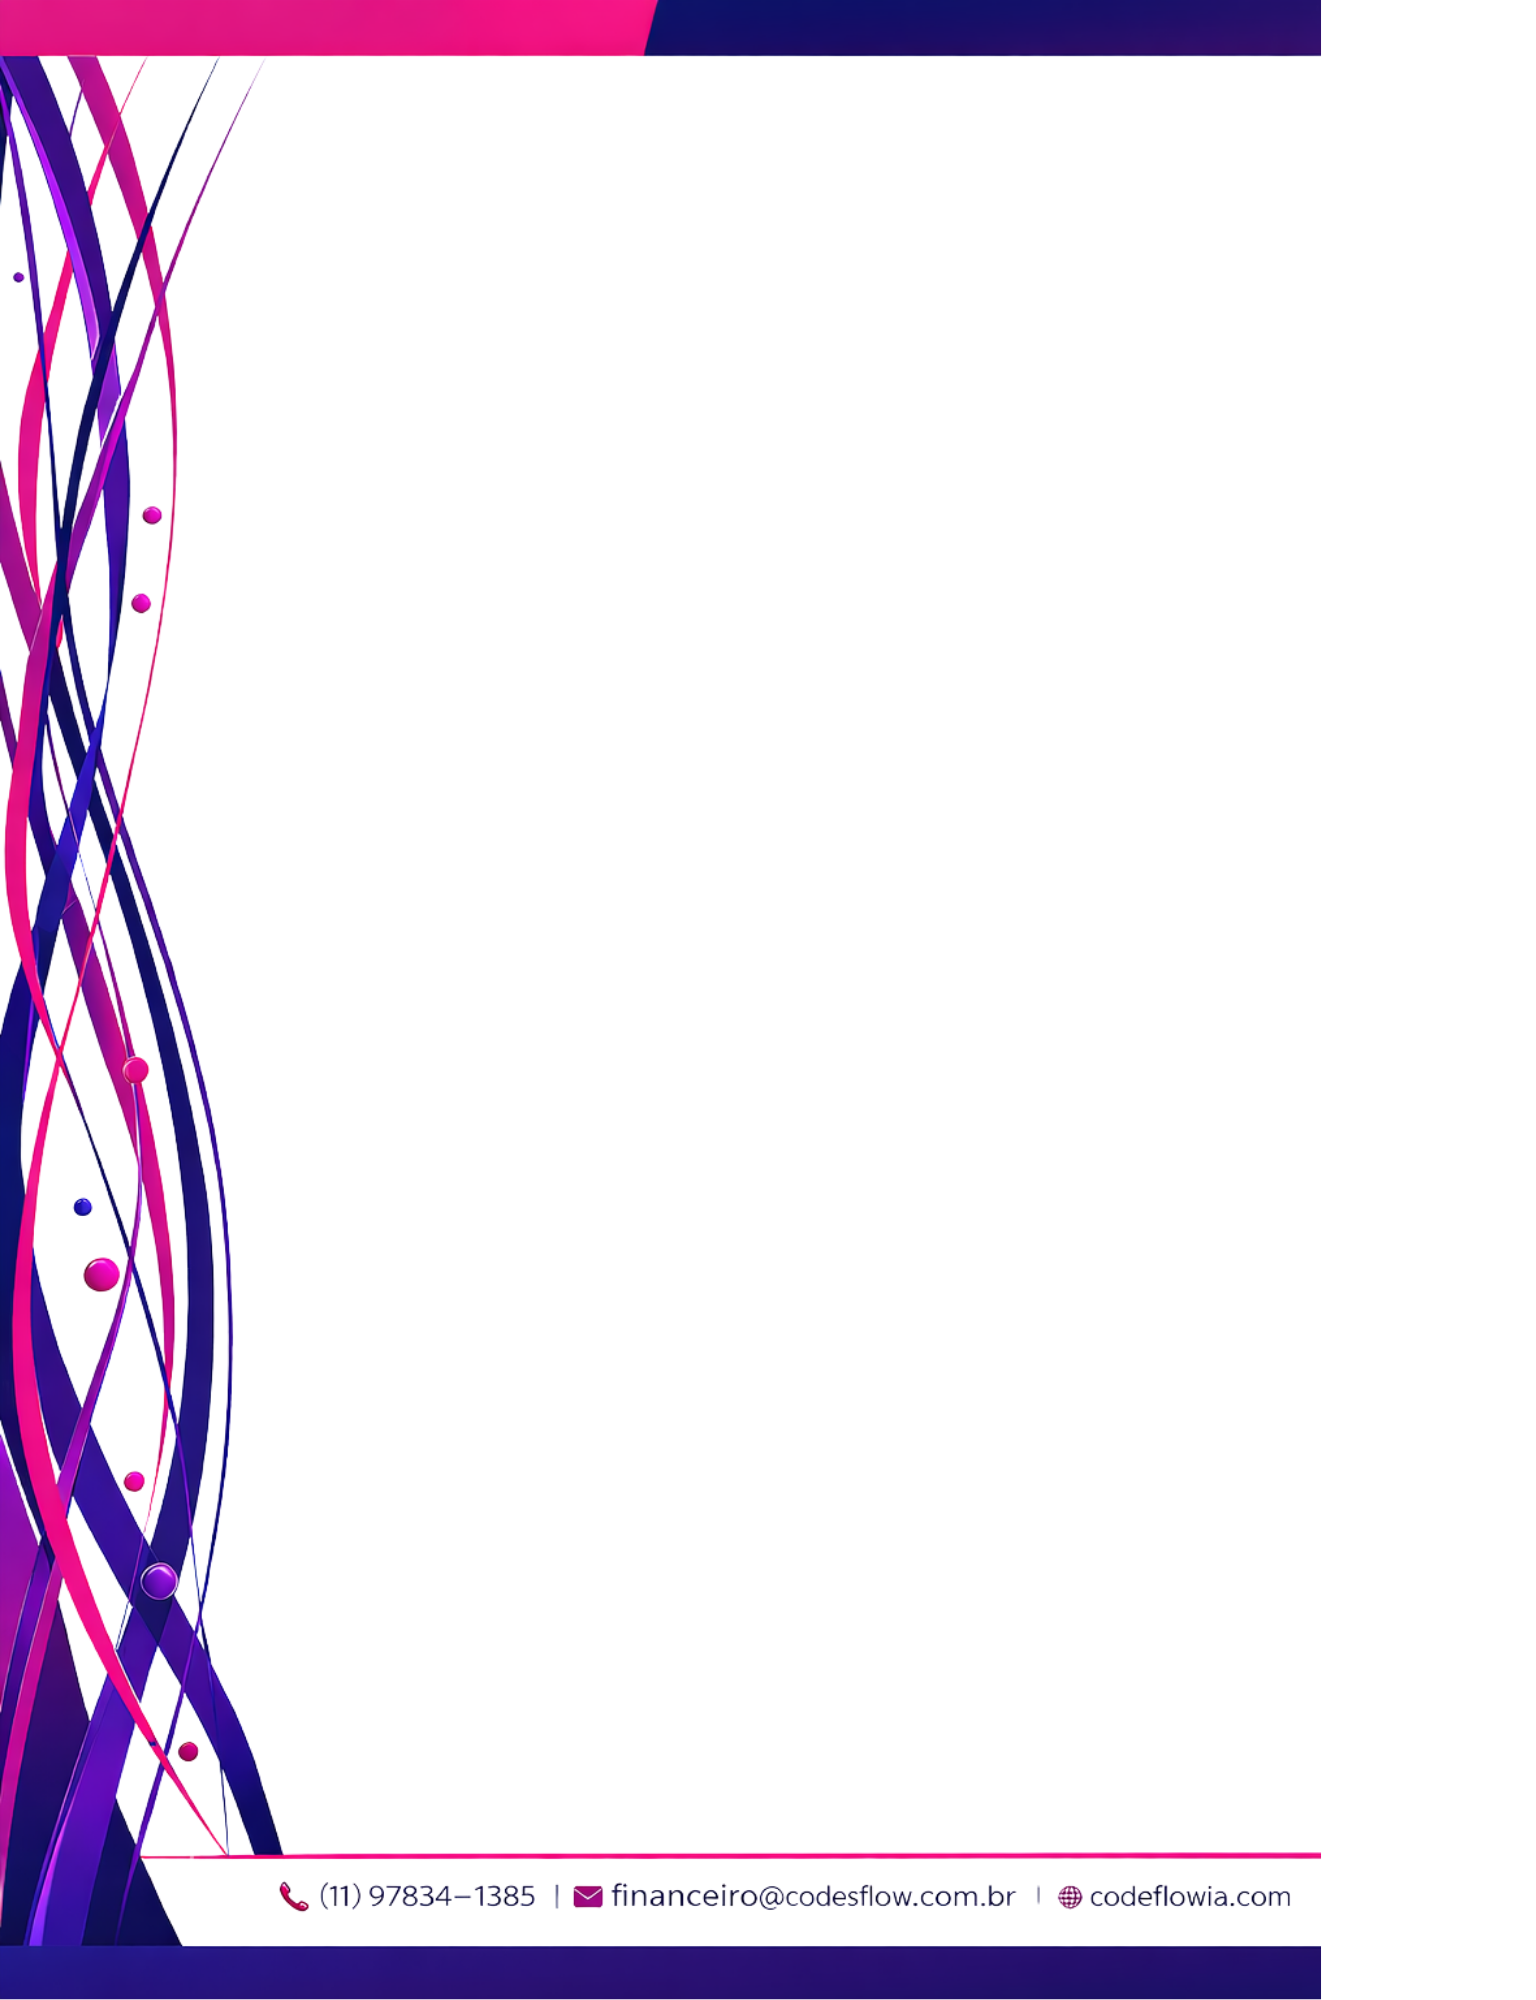
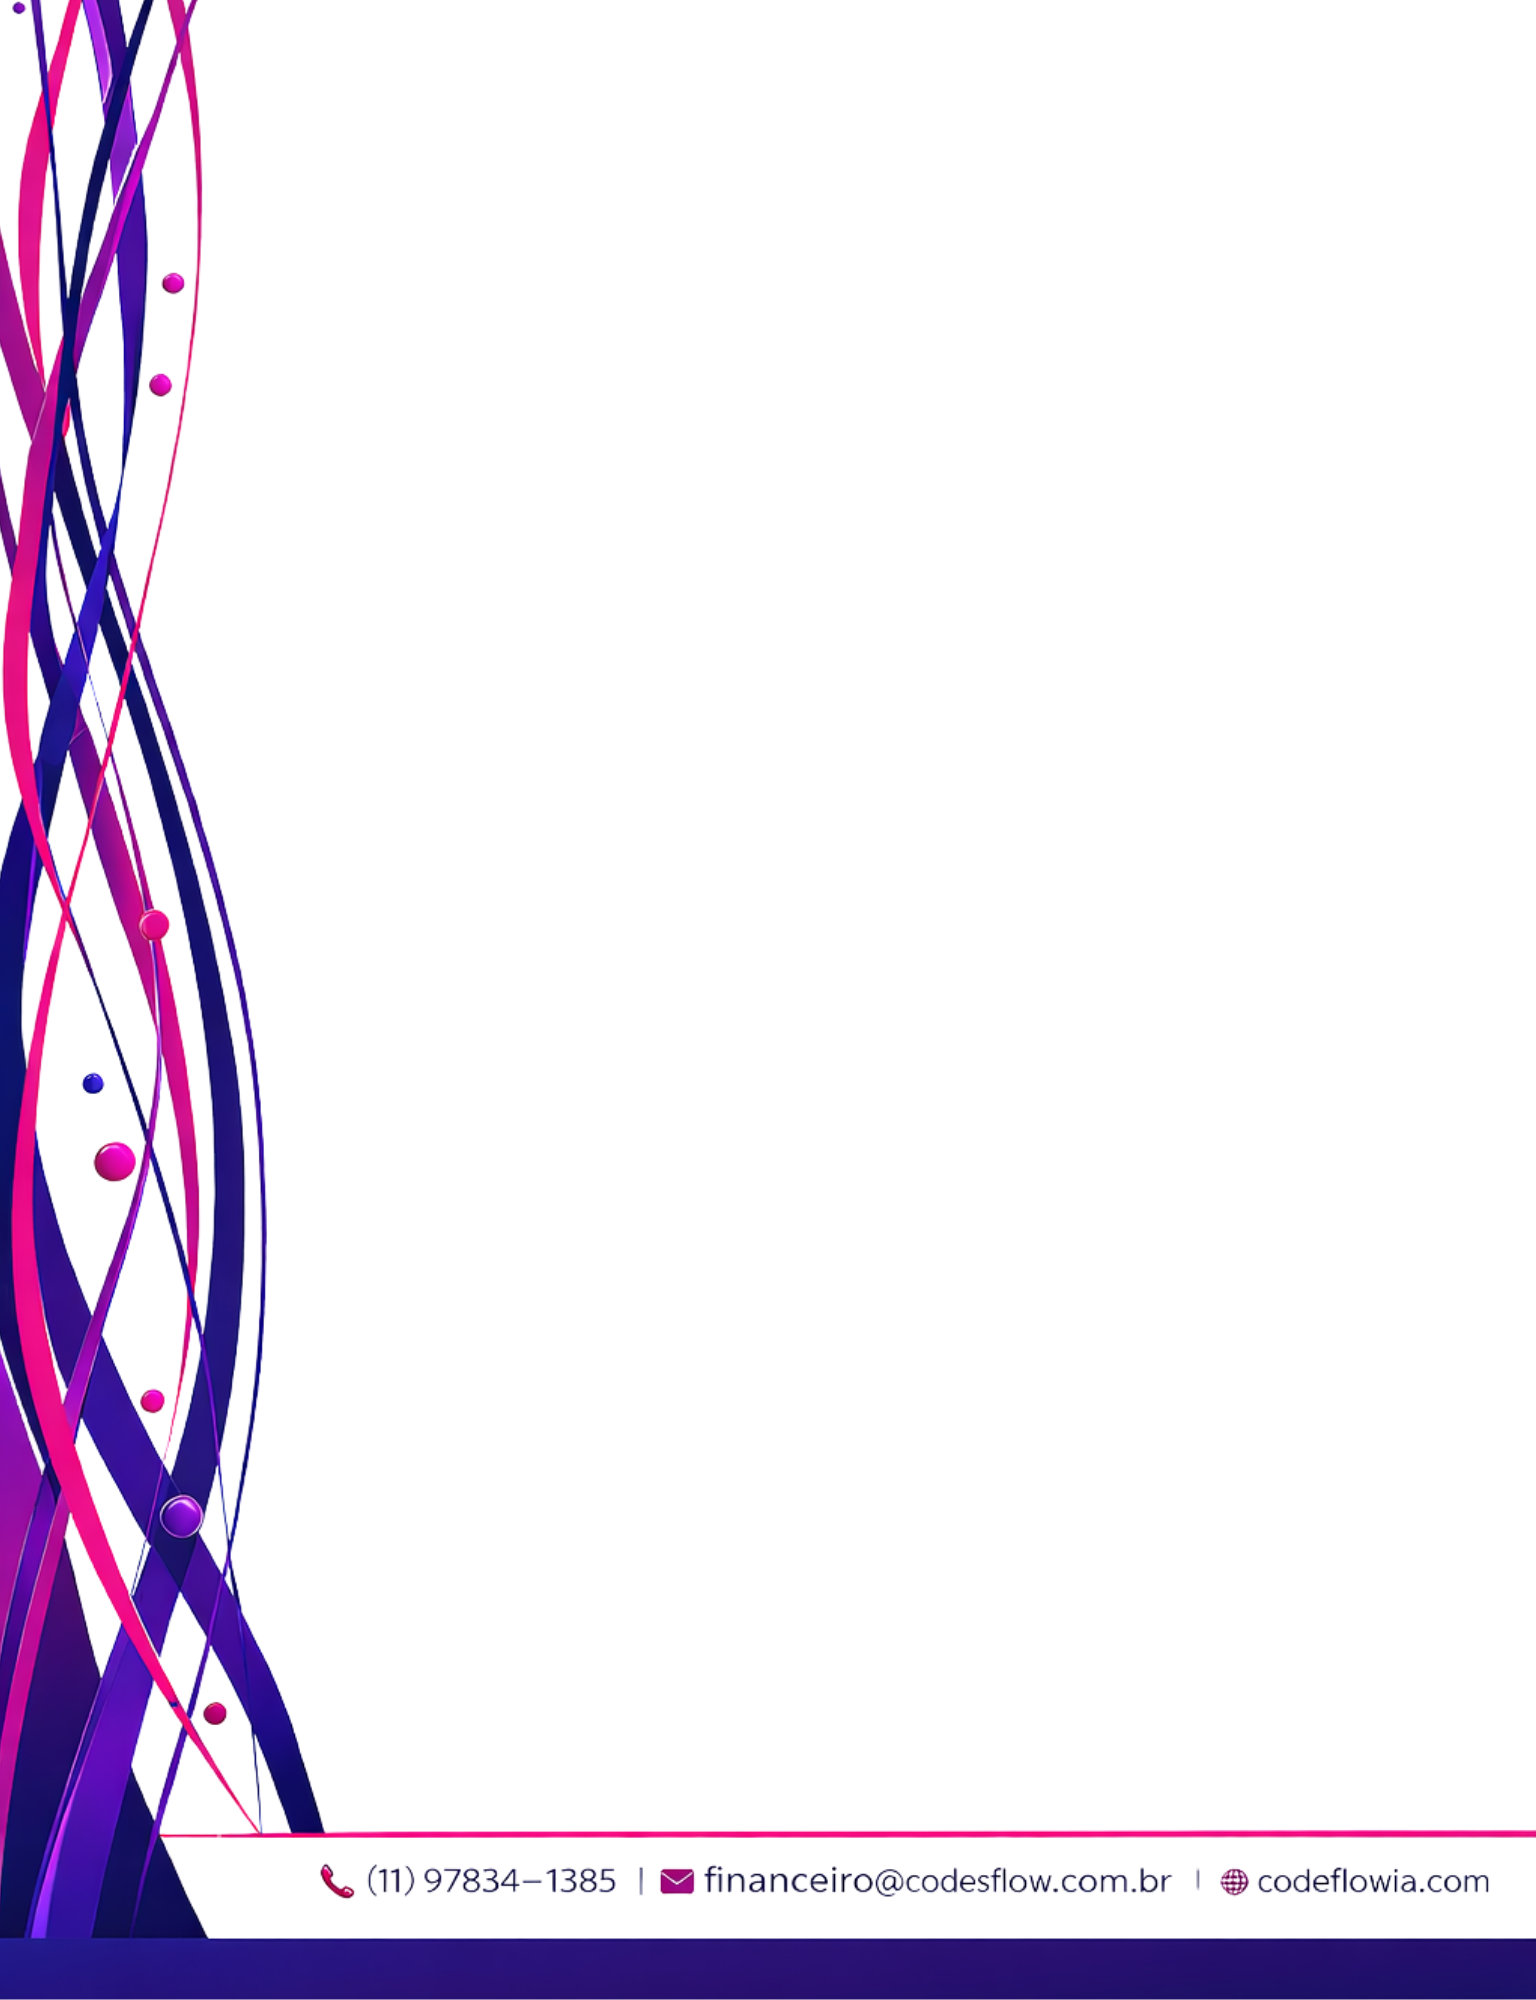
update no fundo

Changed region(s): [[0.0, 0.0, 1.0, 1.0]]

diff --git a/crm/templates/crm/carta_pdf_print copy.html b/crm/templates/crm/carta_pdf_print copy.html
@@ -1,0 +1,174 @@
+{% load static %}
+<!DOCTYPE html>
+<html lang="pt-br">
+<head>
+    <meta charset="UTF-8" />
+    <title>Carta de Depósito Direto</title>
+    <style>
+        @import url('https://fonts.googleapis.com/css2?family=Inter:wght@400;700&display=swap');
+
+        body {
+            background-color: #f0f0f0;
+            font-family: 'Inter', sans-serif;
+            margin: 0;
+            padding: 20px;
+            display: flex;
+            flex-direction: column;
+            align-items: center;
+        }
+
+        /* Botão de imprimir - esconde na impressão */
+        .no-print {
+            margin-bottom: 20px;
+            text-decoration: none;
+            background: #ff007a;
+            color: white;
+            padding: 10px 20px;
+            border-radius: 5px;
+            font-weight: bold;
+        }
+
+        /* Container A4 com a Imagem de Fundo */
+        .document-container {
+            width: 210mm;
+            min-height: 297mm;
+            /* AJUSTE AQUI O CAMINHO DA IMAGEM */
+            background-image: url("{% static 'IMG/Fundo_Termo.png' %}");
+            background-size: 100% 100% ;
+            background-position: center;
+            background-repeat: no-repeat;
+            box-shadow: 0 0 15px rgba(0,0,0,0.2);
+            {% comment %} color: white; {% endcomment %}
+            box-sizing: border-box;
+            
+            /* Recuos para não sobrepor o design da lateral e topo */
+            padding: 100px 60px 100px 130px; 
+            position: relative;
+        }
+
+        h1 {
+            font-size: 26px;
+            color: #ff007a;
+            border-bottom: 2px solid #ff007a;
+            margin-bottom: 20px;
+        }
+
+        h2 {
+            font-size: 16px;
+            color: #b057ff;
+            text-transform: uppercase;
+            margin-top: 30px;
+        }
+
+        table {
+            width: 100%;
+            border-collapse: collapse;
+            margin: 10px 0;
+            background: rgba(255, 255, 255, 0.05);
+            border-radius: 8px;
+        }
+
+        th, td {
+            text-align: left;
+            padding: 10px;
+            border-bottom: 1px solid rgba(255, 255, 255, 0.1);
+        }
+
+        th { color: #ccc; width: 40%; }
+        .highlight { color: #ff007a; font-weight: bold; font-size: 18px; }
+
+        .bank-details {
+            background: rgba(176, 87, 255, 0.1);
+            padding: 20px;
+            border-left: 4px solid #b057ff;
+            border-radius: 4px;
+            margin-top: 20px;
+            margin-left: 26px;
+        }
+
+        .bank-details ul { list-style: none; padding: 0; }
+        .bank-details li { margin-bottom: 8px; }
+
+        .footer {
+            position: absolute;
+            bottom: 60px;
+            left: 130px;
+            font-size: 12px;
+            color: #888;
+        }
+
+        @media print {
+            body { background: none; padding: 0; }
+            .no-print { display: none; }
+            .document-container { box-shadow: none; -webkit-print-color-adjust: exact; }
+        }
+    </style>
+</head>
+<body>
+
+    <a href="#" onclick="window.print();" class="no-print">🖨 CLIQUE PARA IMPRIMIR / SALVAR PDF</a>
+
+    <div class="document-container">
+        
+        <div class="header">
+            <h1>Carta de Depósito Direto</h1>
+        </div>
+
+        <div class="content">
+            <p>Prezado(a) <strong>{{ cliente.nome }}</strong>,</p>
+            <p>Este documento formaliza a solicitação de pagamento via depósito direto referente ao serviço/plano contratado, conforme os detalhes abaixo:</p>
+
+            <h2>Dados do Cliente</h2>
+            <table>
+                <tr>
+                    <th>Nome / Razão Social:</th>
+                    <td>{{ cliente.nome }}</td>
+                </tr>
+                <tr>
+                    <th>Documento (CPF/CNPJ):</th>
+                    <td>{{ cliente.documento }}</td>
+                </tr>
+                <tr>
+                    <th>Telefone:</th>
+                    <td>{{ cliente.telefone }}</td>
+                </tr>
+            </table>
+
+            <h2>Detalhes da Contratação</h2>
+            <table>
+                <tr>
+                    <th>Plano Contratado:</th>
+                    <td>{{ plano.descricao }}</td>
+                </tr>
+                <tr>
+                    <th>Data de Início:</th>
+                    <td>{{ plano_cliente.data_inicio|date:'d/m/Y' }}</td>
+                </tr>
+                <tr>
+                    <th>Valor a ser depositado:</th>
+                    <td class="highlight">R$ {{ valor }}</td>
+                </tr>
+            </table>
+
+            <div class="bank-details">
+                <h2>Dados Bancários para Depósito</h2>
+                <p>Por favor, realize a transferência e envie o comprovante para o nosso setor financeiro.</p>
+                <ul>
+                    <li><strong>Banco:</strong> 0001 - Nubank</li>
+                    <li><strong>Agência:</strong> 0001</li>
+                    <li><strong>Conta Corrente:</strong> 95592724-8</li>
+                    <li><strong>Chave PIX (Telefone):</strong> 11 971498691</li>
+                    <li><strong>Favorecido:</strong> Caio Cezar de Farias</li>
+                </ul>
+            </div>
+
+            <p style="margin-top: 30px;">Agradecemos a sua preferência.</p>
+        </div>
+
+        <div class="footer">
+            <p>Documento gerado em {% now 'd/m/Y H:i' %} pelo sistema CodeFlow CRM.</p>
+        </div>
+    </div>
+
+</body>
+</html>

diff --git a/crm/templates/crm/carta_pdf_print.html b/crm/templates/crm/carta_pdf_print.html
@@ -12,7 +12,7 @@
       }
       body {
         /* Caminho da imagem */
-        background-image: url("{% static 'IMG/Fundo_Termo.png' %}");
+        {% comment %} background-image: url("{% static 'IMG/Fundo_Termo.png' %}"); {% endcomment %}
         /* Configurações de exibição */
         background-size: 100% 100%; /* Força a imagem a preencher a folha A4 exatamente */
         background-repeat: no-repeat;
@@ -122,7 +122,7 @@
     <a href="#" onclick="window.print();" class="no-print">🖨 CLIQUE PARA IMPRIMIR / SALVAR PDF</a>
     <div class="header">
       <h1>Carta de Depósito Direto</h1>
-      <img src="{% static 'IMG/Fundo_Termo.png' %}" alt="" />
+      {% comment %} <img src="{% static 'IMG/Fundo_Termo.png' %}" alt="" /> {% endcomment %}
     </div>
 
     <div class="content">
@@ -191,7 +191,7 @@
 
     <div class="footer">
       <p>
-        Documento gerado em{% now 'd/m/Y H:i' %}pelo sistema CodeFlow CRM.
+        Documento gerado em {% now 'd/m/Y H:i' %}pelo sistema CodeFlow CRM.
       </p>
     </div>
   </body>

diff --git a/crm/admin.py b/crm/admin.py
@@ -90,7 +90,7 @@ class PlanoClienteAdmin(admin.ModelAdmin):
     #         self.message_user(request, f"Erro ao gerar PDF: {str(e)}", level=messages.ERROR)
     
 
-    @admin.action(description='Abrir Carta para Impressão')
+    @admin.action(description='Gerar Fatura')
     def gerar_carta_deposito(self, request, queryset):
         if queryset.count() > 1:
             self.message_user(request, "Selecione apenas um.", level=messages.ERROR)

diff --git a/crm/views.py b/crm/views.py
@@ -9,4 +9,4 @@ def gerar_carta_pdf_view(request, pk):
         'plano': plano_cliente.plano,
         'valor': plano_cliente.get_valor(),
     }
-    return render(request, 'crm/carta_pdf_print.html', context)
+    return render(request, 'crm/carta_pdf_print copy.html', context)
